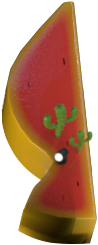
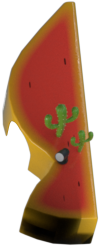
feat: add hole in dino wall (#306)
* feat: add mouse hole in dino wall

* style: trailing comma

diff --git a/packages/pinball_components/lib/src/components/dino_walls.dart b/packages/pinball_components/lib/src/components/dino_walls.dart
@@ -23,59 +23,70 @@ class DinoWalls extends Component {
 /// {@template dino_top_wall}
 /// Wall segment located above [ChromeDino].
 /// {@endtemplate}
-class _DinoTopWall extends BodyComponent with InitialPosition, ZIndex {
+class _DinoTopWall extends BodyComponent with InitialPosition {
   ///{@macro dino_top_wall}
   _DinoTopWall()
       : super(
-          children: [_DinoTopWallSpriteComponent()],
+          children: [
+            _DinoTopWallSpriteComponent(),
+            _DinoTopWallTunnelSpriteComponent(),
+          ],
           renderBody: false,
-        ) {
-    zIndex = ZIndexes.dinoTopWall;
-  }
+        );
 
   List<FixtureDef> _createFixtureDefs() {
-    final topStraightShape = EdgeShape()
+    final topEdgeShape = EdgeShape()
       ..set(
-        Vector2(28.65, -34.3),
-        Vector2(29.5, -34.3),
+        Vector2(29.25, -35.27),
+        Vector2(28.4, -34.77),
       );
 
     final topCurveShape = BezierCurveShape(
       controlPoints: [
-        topStraightShape.vertex1,
-        Vector2(18.8, -26.2),
-        Vector2(26.6, -20.2),
+        topEdgeShape.vertex2,
+        Vector2(21.35, -28.72),
+        Vector2(23.45, -24.62),
       ],
     );
 
-    final middleCurveShape = BezierCurveShape(
-      controlPoints: [
-        topCurveShape.vertices.last,
-        Vector2(27.8, -19.3),
-        Vector2(26.8, -18.7),
-      ],
-    );
-
-    final bottomCurveShape = BezierCurveShape(
-      controlPoints: [
-        middleCurveShape.vertices.last,
-        Vector2(23, -14.2),
-        Vector2(27, -14.2),
-      ],
-    );
-
-    final bottomStraightShape = EdgeShape()
+    final tunnelTopEdgeShape = EdgeShape()
       ..set(
-        bottomCurveShape.vertices.last,
-        Vector2(31, -13.7),
+        topCurveShape.vertices.last,
+        Vector2(30.35, -27.32),
+      );
+
+    final tunnelBottomEdgeShape = EdgeShape()
+      ..set(
+        Vector2(30.75, -23.17),
+        Vector2(25.45, -21.22),
+      );
+
+    final middleEdgeShape = EdgeShape()
+      ..set(
+        tunnelBottomEdgeShape.vertex2,
+        Vector2(27.45, -19.32),
+      );
+
+    final bottomEdgeShape = EdgeShape()
+      ..set(
+        middleEdgeShape.vertex2,
+        Vector2(24.65, -15.02),
+      );
+
+    final undersideEdgeShape = EdgeShape()
+      ..set(
+        bottomEdgeShape.vertex2,
+        Vector2(31.75, -13.77),
       );
 
     return [
-      FixtureDef(topStraightShape),
+      FixtureDef(topEdgeShape),
       FixtureDef(topCurveShape),
-      FixtureDef(middleCurveShape),
-      FixtureDef(bottomCurveShape),
-      FixtureDef(bottomStraightShape),
+      FixtureDef(tunnelTopEdgeShape),
+      FixtureDef(tunnelBottomEdgeShape),
+      FixtureDef(middleEdgeShape),
+      FixtureDef(bottomEdgeShape),
+      FixtureDef(undersideEdgeShape),
     ];
   }
 
@@ -93,7 +104,15 @@ class _DinoTopWall extends BodyComponent with InitialPosition, ZIndex {
   }
 }
 
-class _DinoTopWallSpriteComponent extends SpriteComponent with HasGameRef {
+class _DinoTopWallSpriteComponent extends SpriteComponent
+    with HasGameRef, ZIndex {
+  _DinoTopWallSpriteComponent()
+      : super(
+          position: Vector2(22.75, -38.07),
+        ) {
+    zIndex = ZIndexes.dinoTopWall;
+  }
+
   @override
   Future<void> onLoad() async {
     await super.onLoad();
@@ -104,7 +123,26 @@ class _DinoTopWallSpriteComponent extends SpriteComponent with HasGameRef {
     );
     this.sprite = sprite;
     size = sprite.originalSize / 10;
-    position = Vector2(22.8, -38.1);
+  }
+}
+
+class _DinoTopWallTunnelSpriteComponent extends SpriteComponent
+    with HasGameRef, ZIndex {
+  _DinoTopWallTunnelSpriteComponent()
+      : super(position: Vector2(23.31, -26.01)) {
+    zIndex = ZIndexes.dinoTopWallTunnel;
+  }
+
+  @override
+  Future<void> onLoad() async {
+    await super.onLoad();
+    final sprite = Sprite(
+      gameRef.images.fromCache(
+        Assets.images.dino.topWallTunnel.keyName,
+      ),
+    );
+    this.sprite = sprite;
+    size = sprite.originalSize / 10;
   }
 }
 
@@ -122,7 +160,7 @@ class _DinoBottomWall extends BodyComponent with InitialPosition, ZIndex {
   }
 
   List<FixtureDef> _createFixtureDefs() {
-    final topStraightShape = EdgeShape()
+    final topEdgeShape = EdgeShape()
       ..set(
         Vector2(32.4, -8.8),
         Vector2(25, -7.7),
@@ -130,29 +168,29 @@ class _DinoBottomWall extends BodyComponent with InitialPosition, ZIndex {
 
     final topLeftCurveShape = BezierCurveShape(
       controlPoints: [
-        topStraightShape.vertex2,
+        topEdgeShape.vertex2,
         Vector2(21.8, -7),
         Vector2(29.8, 13.8),
       ],
     );
 
-    final bottomLeftStraightShape = EdgeShape()
+    final bottomLeftEdgeShape = EdgeShape()
       ..set(
         topLeftCurveShape.vertices.last,
         Vector2(31.9, 44.1),
       );
 
-    final bottomStraightShape = EdgeShape()
+    final bottomEdgeShape = EdgeShape()
       ..set(
-        bottomLeftStraightShape.vertex2,
+        bottomLeftEdgeShape.vertex2,
         Vector2(37.8, 44.1),
       );
 
     return [
-      FixtureDef(topStraightShape),
+      FixtureDef(topEdgeShape),
       FixtureDef(topLeftCurveShape),
-      FixtureDef(bottomLeftStraightShape),
-      FixtureDef(bottomStraightShape),
+      FixtureDef(bottomLeftEdgeShape),
+      FixtureDef(bottomEdgeShape),
     ];
   }
 

diff --git a/packages/pinball_components/sandbox/lib/stories/dino_desert/dino_walls_game.dart b/packages/pinball_components/sandbox/lib/stories/dino_desert/dino_walls_game.dart
@@ -1,18 +1,14 @@
-import 'package:flame/extensions.dart';
+import 'dart:async';
+
+import 'package:flame/input.dart';
 import 'package:pinball_components/pinball_components.dart';
 import 'package:sandbox/stories/ball/basic_ball_game.dart';
 
-class SlingshotGame extends BallGame {
-  SlingshotGame()
-      : super(
-          imagesFileNames: [
-            Assets.images.slingshot.upper.keyName,
-            Assets.images.slingshot.lower.keyName,
-          ],
-        );
+class DinoWallsGame extends BallGame {
+  DinoWallsGame() : super();
 
   static const description = '''
-    Shows how Slingshots are rendered.
+    Shows how DinoWalls are rendered.
 
     - Activate the "trace" parameter to overlay the body.
     - Tap anywhere on the screen to spawn a ball into the game.
@@ -22,9 +18,14 @@ class SlingshotGame extends BallGame {
   Future<void> onLoad() async {
     await super.onLoad();
 
+    await images.loadAll([
+      Assets.images.dino.topWall.keyName,
+      Assets.images.dino.topWallTunnel.keyName,
+      Assets.images.dino.bottomWall.keyName,
+    ]);
+
+    await add(DinoWalls());
     camera.followVector2(Vector2.zero());
-    await add(Slingshots());
-    await ready();
     await traceAllBodies();
   }
 }

diff --git a/packages/pinball_components/sandbox/lib/stories/dino_desert/slingshots_game.dart b/packages/pinball_components/sandbox/lib/stories/dino_desert/slingshots_game.dart
@@ -1,14 +1,18 @@
-import 'dart:async';
-
-import 'package:flame/input.dart';
+import 'package:flame/extensions.dart';
 import 'package:pinball_components/pinball_components.dart';
 import 'package:sandbox/stories/ball/basic_ball_game.dart';
 
-class DinoWallGame extends BallGame {
-  DinoWallGame() : super();
+class SlingshotsGame extends BallGame {
+  SlingshotsGame()
+      : super(
+          imagesFileNames: [
+            Assets.images.slingshot.upper.keyName,
+            Assets.images.slingshot.lower.keyName,
+          ],
+        );
 
   static const description = '''
-    Shows how DinoWalls are rendered.
+    Shows how Slingshots are rendered.
 
     - Activate the "trace" parameter to overlay the body.
     - Tap anywhere on the screen to spawn a ball into the game.
@@ -18,13 +22,9 @@ class DinoWallGame extends BallGame {
   Future<void> onLoad() async {
     await super.onLoad();
 
-    await images.loadAll([
-      Assets.images.dino.topWall.keyName,
-      Assets.images.dino.bottomWall.keyName,
-    ]);
-
-    await add(DinoWalls());
     camera.followVector2(Vector2.zero());
+    await add(Slingshots());
+    await ready();
     await traceAllBodies();
   }
 }

diff --git a/packages/pinball_components/sandbox/lib/stories/dino_desert/stories.dart b/packages/pinball_components/sandbox/lib/stories/dino_desert/stories.dart
@@ -1,0 +1,24 @@
+import 'package:dashbook/dashbook.dart';
+import 'package:sandbox/common/common.dart';
+import 'package:sandbox/stories/dino_desert/chrome_dino_game.dart';
+import 'package:sandbox/stories/dino_desert/dino_walls_game.dart';
+import 'package:sandbox/stories/dino_desert/slingshots_game.dart';
+
+void addDinoDesertStories(Dashbook dashbook) {
+  dashbook.storiesOf('Dino Desert')
+    ..addGame(
+      title: 'Chrome Dino',
+      description: ChromeDinoGame.description,
+      gameBuilder: (_) => ChromeDinoGame(),
+    )
+    ..addGame(
+      title: 'Dino Walls',
+      description: DinoWallsGame.description,
+      gameBuilder: (_) => DinoWallsGame(),
+    )
+    ..addGame(
+      title: 'Slingshots',
+      description: SlingshotsGame.description,
+      gameBuilder: (_) => SlingshotsGame(),
+    );
+}

diff --git a/packages/pinball_components/sandbox/lib/main.dart b/packages/pinball_components/sandbox/lib/main.dart
@@ -14,19 +14,17 @@ void main() {
   addBallStories(dashbook);
   addLayerStories(dashbook);
   addEffectsStories(dashbook);
-  addChromeDinoStories(dashbook);
   addFlutterForestStories(dashbook);
-  addBottomGroupStories(dashbook);
-  addPlungerStories(dashbook);
-  addSlingshotStories(dashbook);
   addSparkyScorchStories(dashbook);
   addAndroidAcresStories(dashbook);
+  addDinoDesertStories(dashbook);
+  addBottomGroupStories(dashbook);
+  addPlungerStories(dashbook);
   addBoundariesStories(dashbook);
   addGoogleWordStories(dashbook);
   addLaunchRampStories(dashbook);
   addScoreStories(dashbook);
   addBackboardStories(dashbook);
-  addDinoWallStories(dashbook);
   addMultiballStories(dashbook);
   addMultipliersStories(dashbook);
 

diff --git a/packages/pinball_components/sandbox/lib/stories/stories.dart b/packages/pinball_components/sandbox/lib/stories/stories.dart
@@ -3,8 +3,7 @@ export 'backboard/stories.dart';
 export 'ball/stories.dart';
 export 'bottom_group/stories.dart';
 export 'boundaries/stories.dart';
-export 'chrome_dino/stories.dart';
-export 'dino_wall/stories.dart';
+export 'dino_desert/stories.dart';
 export 'effects/stories.dart';
 export 'flutter_forest/stories.dart';
 export 'google_word/stories.dart';
@@ -14,5 +13,4 @@ export 'multiball/stories.dart';
 export 'multipliers/stories.dart';
 export 'plunger/stories.dart';
 export 'score/stories.dart';
-export 'slingshot/stories.dart';
 export 'sparky_scorch/stories.dart';

diff --git a/lib/game/game_assets.dart b/lib/game/game_assets.dart
@@ -38,6 +38,7 @@ extension PinballGameAssetsX on PinballGame {
       ),
       images.load(components.Assets.images.dino.bottomWall.keyName),
       images.load(components.Assets.images.dino.topWall.keyName),
+      images.load(components.Assets.images.dino.topWallTunnel.keyName),
       images.load(components.Assets.images.dino.animatronic.head.keyName),
       images.load(components.Assets.images.dino.animatronic.mouth.keyName),
       images.load(components.Assets.images.dash.animatronic.keyName),

diff --git a/packages/pinball_components/lib/gen/assets.gen.dart b/packages/pinball_components/lib/gen/assets.gen.dart
@@ -124,6 +124,10 @@ class $AssetsImagesDinoGen {
   AssetGenImage get bottomWall =>
       const AssetGenImage('assets/images/dino/bottom-wall.png');
 
+  /// File path: assets/images/dino/top-wall-tunnel.png
+  AssetGenImage get topWallTunnel =>
+      const AssetGenImage('assets/images/dino/top-wall-tunnel.png');
+
   /// File path: assets/images/dino/top-wall.png
   AssetGenImage get topWall =>
       const AssetGenImage('assets/images/dino/top-wall.png');

diff --git a/lib/game/components/flutter_forest/behaviors/flutter_forest_bonus_behavior.dart b/lib/game/components/flutter_forest/behaviors/flutter_forest_bonus_behavior.dart
@@ -40,7 +40,7 @@ class FlutterForestBonusBehavior extends Component
                 .add(const BonusActivated(GameBonus.dashNest));
             canvas.add(
               ControlledBall.bonus(characterTheme: gameRef.characterTheme)
-                ..initialPosition = Vector2(17.2, -52.7),
+                ..initialPosition = Vector2(29.5, -24.5),
             );
             animatronic.playing = true;
             signpost.bloc.onProgressed();

diff --git a/test/game/pinball_game_test.dart b/test/game/pinball_game_test.dart
@@ -48,6 +48,7 @@ void main() {
     Assets.images.dino.animatronic.mouth.keyName,
     Assets.images.dino.animatronic.head.keyName,
     Assets.images.dino.topWall.keyName,
+    Assets.images.dino.topWallTunnel.keyName,
     Assets.images.dino.bottomWall.keyName,
     Assets.images.dash.animatronic.keyName,
     Assets.images.dash.bumper.a.active.keyName,

diff --git a/test/game/components/dino_desert/dino_desert_test.dart b/test/game/components/dino_desert/dino_desert_test.dart
@@ -14,6 +14,7 @@ void main() {
     Assets.images.dino.animatronic.head.keyName,
     Assets.images.dino.animatronic.mouth.keyName,
     Assets.images.dino.topWall.keyName,
+    Assets.images.dino.topWallTunnel.keyName,
     Assets.images.dino.bottomWall.keyName,
     Assets.images.slingshot.upper.keyName,
     Assets.images.slingshot.lower.keyName,

diff --git a/packages/pinball_components/test/src/components/dino_walls_test.dart b/packages/pinball_components/test/src/components/dino_walls_test.dart
@@ -12,6 +12,7 @@ void main() {
     TestWidgetsFlutterBinding.ensureInitialized();
     final assets = [
       Assets.images.dino.topWall.keyName,
+      Assets.images.dino.topWallTunnel.keyName,
       Assets.images.dino.bottomWall.keyName,
     ];
     final flameTester = FlameTester(() => TestGame(assets));
